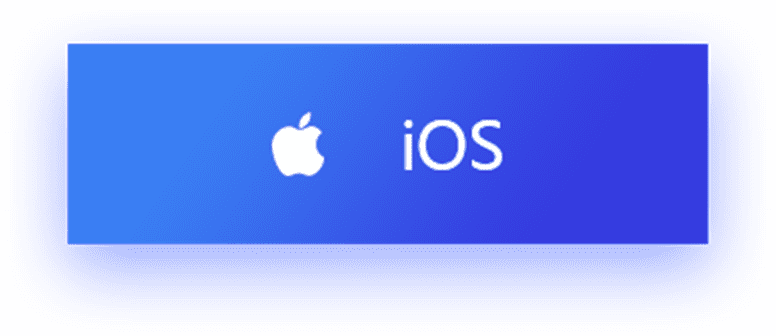
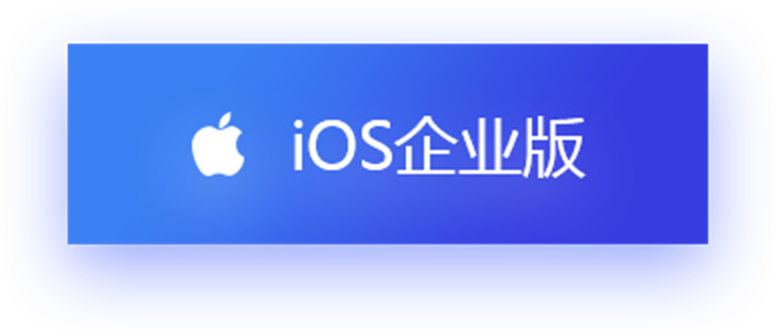
1309    ET官网修改（由于加了APPStore链接，上面的IOS下载图片换成IOS企业版下载）

Changed region(s): [[0.2474, 0.3274, 0.7732, 0.5357]]

diff --git a/index.html b/index.html
@@ -39,22 +39,25 @@
                             <!--<a class="down_token" lang>down_address</a>-->
                         </div>
                         <div class="btn_contain">
-                  <span class="btn_img_contain">
-                    <a href="http://apple.eostoken.im/">
-                      <img src="images/ios_btn.png" alt="" class="btn_img" data-type="ios"/>
-                    </a>
-                    <img src="images/download_apple.png" alt="" class="btn_down" style="display: none;"/>
-                  </span>
                             <span class="btn_img_contain">
-                    <a href="http://android.eostoken.im/android">
-                      <img src="images/android_btn.png" alt="" class="btn_img" data-type="android"/>
-                    </a>
-                    <img src="images/download_android.png" alt="" class="btn_down" style="display: none;"/>
-                  </span>
+                                <a href="http://apple.eostoken.im/">
+                                    <img src="images/ios_btn.png" alt="" class="btn_img" data-type="ios"/>
+                                </a>
+                                <img src="images/download_apple.png" alt="" class="btn_down" style="display: none;"/>
+                            </span>
+                            <span class="btn_img_contain">
+                                <a href="http://android.eostoken.im/android">
+                                    <img src="images/android_btn.png" alt="" class="btn_img" data-type="android"/>
+                                </a>
+                                <img src="images/download_android.png" alt="" class="btn_down" style="display: none;"/>
+                            </span>
                         </div>
                         <!--<div style="color: rgb(255, 0, 0);">-->
                         <!--如果苹果手机不能下载，请把苹果手机系统升级到最新版本-->
                         <!--</div>-->
+                        <div>
+                            <a href="https://itunes.apple.com/cn/app/eostoken/id1444575972" style="color:#385CE9;font-size: 18px">AppStore下载</a>
+                        </div>
                     </div>
                 </div>
                 <div class="swiper-slide">
@@ -178,9 +181,9 @@
                 <img src="images/Facebook.png" alt="" class="icon_link"/>
                 <img src="images/Twitter.png" alt="" class="icon_link"/>
                 <span class="wechat">
-              <img src="images/Wechat.png" alt="" class="icon_link"/>
-              <img src="images/img_qrcode.jpg" alt="" class="qrcode" style="display: none;"/>
-            </span>
+                    <img src="images/WeChat.png" alt="" class="icon_link"/>
+                    <img src="images/img_qrcode.jpg" alt="" class="qrcode" style="display: none;"/>
+                </span>
                 <img src="images/Weibo.png" alt="" class="icon_link"/>
             </div>
         </div>
@@ -213,6 +216,16 @@
         }
     }
 
+    function iosappstore(){
+        var ua = window.navigator.userAgent.toLowerCase();
+        //通过正则表达式匹配ua中是否含有MicroMessenger字符串
+        if(ua.match(/MicroMessenger/i) == 'micromessenger'){
+            this.isWeChat = true;
+        }else{
+            window.location.href = "https://itunes.apple.com/cn/app/eostoken/id1444575972"
+        }
+    }
+
     window.onload = myfun;
     $(function () {
         //初始化swiper
@@ -233,7 +246,7 @@
             $(this).addClass("hover").siblings().removeClass("hover");
         })
         $('.aboutUsPage').click(function () {
-            mySwiper.slideTo(5, 500, false);//切换到第六个slide，速度为0.5秒
+            mySwiper.slideTo(4, 500, false);//切换到第五个slide，速度为0.5秒
             $(this).addClass("hover").siblings().removeClass("hover");
         })
         $('.linkPage').click(function () {

diff --git a/mobile_index.html b/mobile_index.html
@@ -46,6 +46,9 @@
                 <a onclick="android()"><img src="images/android_btn.png" alt=""/></a>
               </div>
               <!--<div style="color: rgb(255, 0, 0);">如果苹果手机不能下载，请把苹果手机系统升级到最新版本</div>-->
+              <div>
+                <a onclick="iosappstore()" style="color:#385CE9;font-size: 18px">AppStore下载</a>
+              </div>
             </div>
             <div class="swiper-slide" id="secondPage">
               <p class="top_txt" lang>secondPage_txt_title</p>
@@ -153,6 +156,8 @@
             var ua = navigator.userAgent.toLowerCase();
             if (ua.match(/MicroMessenger/i) == "micromessenger") {
                 this.isWeChat = true;
+                document.getElementById("idWechat").style.display="block";
+                return;
             }else{
                 window.location.href = "itms-services://?action=download-manifest&url=https://apple.g2qzo.cn/images/eostoken20181120.plist"
             }
@@ -162,8 +167,22 @@
             var ua = navigator.userAgent.toLowerCase();
             if (ua.match(/MicroMessenger/i) == "micromessenger") {
                 this.isWeChat = true;
+                document.getElementById("idWechat").style.display="block";
+                return;
             }else{
                 window.location.href = "http://android.eostoken.im/android"
+            }
+        }
+
+        function iosappstore(){
+            var ua = window.navigator.userAgent.toLowerCase();
+            //通过正则表达式匹配ua中是否含有MicroMessenger字符串
+            if(ua.match(/MicroMessenger/i) == 'micromessenger'){
+                this.isWeChat = true;
+                document.getElementById("idWechat").style.display="block";
+                return;
+            }else{
+                window.location.href = "https://itunes.apple.com/cn/app/eostoken/id1444575972"
             }
         }
     window.onload = myfun;
@@ -180,7 +199,7 @@
           mySwiper.slideTo(1, 500, false);//切换到第二个slide，速度为0.5秒
         })
         $('.aboutUsPage').click(function(){
-          mySwiper.slideTo(5, 500, false);//切换到第六个slide，速度为0.5秒
+          mySwiper.slideTo(4, 500, false);//切换到第五个slide，速度为0.5秒
         })
         $('.linkPage').click(function(){
           mySwiper.slideTo(5, 500, false);//切换到第六个slide，速度为0.5秒
